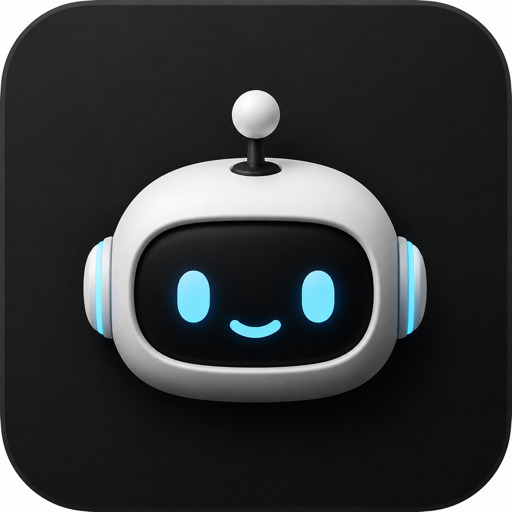
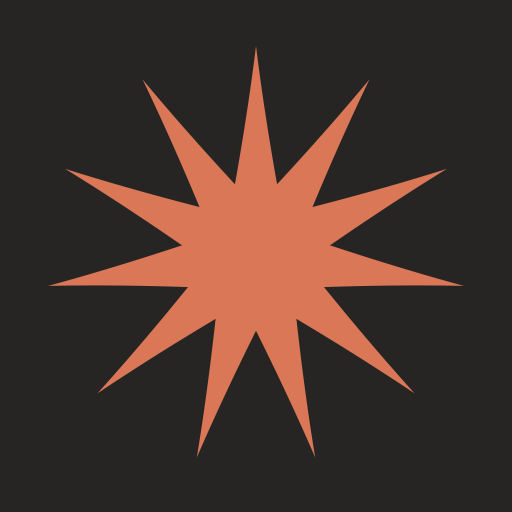
feat: 테마 스위처(docs-to-audiobook 팔레트)·앱 이름 FORGE·로고·작성중 애니메이션
- 테마 4종: 코랄(기본)·골드·페이퍼·라이트. docs-to-audiobook 'Paper &
  Voice' 팔레트 기반. 메뉴 스와치로 전환, data-theme + localStorage.
- 앱 이름 에이전트 → FORGE(title·manifest). 코랄 선버스트 로고(logo.svg/png,
  icon.png) 교체. 빈 화면에 로고 마크.
- '작성 중' 바운싱 점 애니메이션 — 생성 중 멈춰보이지 않게.
- 라이트 테마에서 안 보이던 흰색 하드코딩 텍스트 토큰화.

diff --git a/frontend/src/App.vue b/frontend/src/App.vue
@@ -24,6 +24,24 @@ const showSkills = ref(false)
 const skills = ref([])
 const searchQuery = ref('')
 const searchResults = ref([])
+const theme = ref(localStorage.getItem('forge_theme') || 'dark')
+const THEMES = [
+  { id: 'dark', label: '코랄', c: '#d97757', bg: '#262523' },
+  { id: 'gold', label: '골드', c: '#d9a66f', bg: '#11100f' },
+  { id: 'paper', label: '페이퍼', c: '#a67c52', bg: '#faf5e6' },
+  { id: 'light', label: '라이트', c: '#8a6d3b', bg: '#ffffff' },
+]
+
+function applyTheme(id) {
+  if (id === 'dark') document.documentElement.removeAttribute('data-theme')
+  else document.documentElement.setAttribute('data-theme', id)
+}
+
+function setTheme(id) {
+  theme.value = id
+  localStorage.setItem('forge_theme', id)
+  applyTheme(id)
+}
 let searchTimer = null
 
 function onSearch() {
@@ -1100,6 +1118,8 @@ watch(busy, (v) => {
   window.__forgeBusy = v
 })
 
+applyTheme(theme.value)
+
 onMounted(async () => {
   await loadRooms()
   // 유효한 현재 세션이 없으면 가장 최근 세션으로 랜딩
@@ -1168,6 +1188,20 @@ document.addEventListener('visibilitychange', () => {
           <svg width="18" height="18" viewBox="0 0 24 24" fill="none" stroke="currentColor" stroke-width="2" stroke-linecap="round" stroke-linejoin="round"><circle cx="12" cy="12" r="3"/><path d="M19.4 15a1.65 1.65 0 0 0 .33 1.82l.06.06a2 2 0 1 1-2.83 2.83l-.06-.06a1.65 1.65 0 0 0-1.82-.33 1.65 1.65 0 0 0-1 1.51V21a2 2 0 0 1-4 0v-.09A1.65 1.65 0 0 0 9 19.4a1.65 1.65 0 0 0-1.82.33l-.06.06a2 2 0 1 1-2.83-2.83l.06-.06a1.65 1.65 0 0 0 .33-1.82 1.65 1.65 0 0 0-1.51-1H3a2 2 0 0 1 0-4h.09A1.65 1.65 0 0 0 4.6 9a1.65 1.65 0 0 0-.33-1.82l-.06-.06a2 2 0 1 1 2.83-2.83l.06.06a1.65 1.65 0 0 0 1.82.33H9a1.65 1.65 0 0 0 1-1.51V3a2 2 0 0 1 4 0v.09a1.65 1.65 0 0 0 1 1.51 1.65 1.65 0 0 0 1.82-.33l.06-.06a2 2 0 1 1 2.83 2.83l-.06.06a1.65 1.65 0 0 0-.33 1.82V9a1.65 1.65 0 0 0 1.51 1H21a2 2 0 0 1 0 4h-.09a1.65 1.65 0 0 0-1.51 1z"/></svg>
           <span>관리자</span>
         </div>
+        <div class="theme-row">
+          <span class="theme-label">테마</span>
+          <button
+            v-for="t in THEMES"
+            :key="t.id"
+            class="theme-swatch"
+            :class="{ active: theme === t.id }"
+            :style="{ background: t.bg }"
+            :title="t.label"
+            @click.stop="setTheme(t.id)"
+          >
+            <span class="theme-dot" :style="{ background: t.c }"></span>
+          </button>
+        </div>
       </div>
     </div>
 
@@ -1232,6 +1266,7 @@ document.addEventListener('visibilitychange', () => {
 
     <main ref="chatEl" @scroll.passive="onChatScroll" @touchstart.passive="onMainTouchStart" @touchend.passive="onMainTouchEnd">
       <div v-if="messages.length === 0" class="welcome">
+        <img src="/logo.svg" class="welcome-logo" alt="FORGE" />
         <div class="welcome-brand">FORGE</div>
         <p class="welcome-title">무엇을 작업할까요?</p>
         <p class="sub">{{ shortPath(currentRoom()?.workspace_path) || '워크스페이스 미설정' }}에서 자율로 작업합니다.</p>
@@ -1287,6 +1322,11 @@ document.addEventListener('visibilitychange', () => {
                   <pre v-else>{{ t.status === 'running' ? '실행 중…' : (t.result || '(출력 없음)') }}</pre>
                 </details>
               </template>
+            </div>
+
+            <div v-if="busy && i === messages.length - 1" class="typing">
+              <span class="typing-label">작성 중</span>
+              <span class="typing-dots"><i></i><i></i><i></i></span>
             </div>
 
             <div v-if="(m.state && (m.state.files_changed?.length || m.state.errors?.length)) || m.compacted" class="state-summary">

diff --git a/frontend/src/style.css b/frontend/src/style.css
@@ -1,5 +1,5 @@
 :root {
-  /* 따뜻한 차콜 다크 (Claude 계열) — 순수 블랙 대신 웜 톤 */
+  /* 기본: 따뜻한 차콜 다크 (Claude 계열) + 코랄 */
   --bg: #262523;
   --panel: #302f2c;
   --panel-2: #3a3835;
@@ -8,6 +8,38 @@
   --accent: #d97757;
   --accent-soft: rgba(217, 119, 87, 0.16);
   --border: #423f3a;
+}
+
+/* docs-to-audiobook "Paper & Voice" 팔레트 기반 테마 (data-theme로 전환) */
+:root[data-theme="gold"] {
+  --bg: #11100f;
+  --panel: #1d1b19;
+  --panel-2: #26231f;
+  --text: #e8e4de;
+  --muted: #a3a3a3;
+  --accent: #d9a66f;
+  --accent-soft: rgba(217, 166, 111, 0.16);
+  --border: #302b25;
+}
+:root[data-theme="paper"] {
+  --bg: #faf5e6;
+  --panel: #ffffff;
+  --panel-2: #f2ead6;
+  --text: #3b2f2f;
+  --muted: #7a6559;
+  --accent: #a67c52;
+  --accent-soft: rgba(166, 124, 82, 0.14);
+  --border: rgba(120, 100, 90, 0.22);
+}
+:root[data-theme="light"] {
+  --bg: #ffffff;
+  --panel: #f5f5f4;
+  --panel-2: #ececea;
+  --text: #1a1a1a;
+  --muted: #6b6b6b;
+  --accent: #8a6d3b;
+  --accent-soft: rgba(138, 109, 59, 0.12);
+  --border: rgba(0, 0, 0, 0.12);
 }
 
 * {
@@ -2133,10 +2165,10 @@ button {
 .text p { margin: 11px 0; }
 .text strong, .text b {
   font-weight: 700;
-  color: #fdfcf7;
+  color: var(--text);
 }
 .text h1, .text h2, .text h3, .text h4 {
-  color: #fdfcf7;
+  color: var(--text);
   font-weight: 700;
   margin: 20px 0 10px;
 }
@@ -2277,4 +2309,79 @@ button {
   overflow: hidden;
   text-overflow: ellipsis;
   white-space: nowrap;
+}
+
+.theme-row {
+  display: flex;
+  align-items: center;
+  gap: 8px;
+  padding: 12px 16px;
+}
+.theme-label {
+  font-size: 13px;
+  color: var(--muted);
+  margin-right: 4px;
+}
+.theme-swatch {
+  width: 30px;
+  height: 30px;
+  border-radius: 50%;
+  border: 2px solid var(--border);
+  display: flex;
+  align-items: center;
+  justify-content: center;
+  padding: 0;
+}
+.theme-swatch.active {
+  border-color: var(--accent);
+}
+.theme-dot {
+  width: 12px;
+  height: 12px;
+  border-radius: 50%;
+}
+
+/* 작성 중 인디케이터 (Claude식) */
+.typing {
+  display: flex;
+  align-items: center;
+  gap: 8px;
+  margin-top: 6px;
+  color: var(--accent);
+}
+.typing-label {
+  font-size: 13px;
+  font-weight: 600;
+}
+.typing-dots {
+  display: inline-flex;
+  gap: 4px;
+}
+.typing-dots i {
+  width: 6px;
+  height: 6px;
+  border-radius: 50%;
+  background: var(--accent);
+  display: inline-block;
+  animation: typing-bounce 1.2s ease-in-out infinite;
+}
+.typing-dots i:nth-child(2) { animation-delay: 0.15s; }
+.typing-dots i:nth-child(3) { animation-delay: 0.3s; }
+@keyframes typing-bounce {
+  0%, 60%, 100% { transform: translateY(0); opacity: 0.45; }
+  30% { transform: translateY(-5px); opacity: 1; }
+}
+
+/* 헤더 로고 */
+.brand-logo {
+  width: 22px;
+  height: 22px;
+  flex-shrink: 0;
+}
+
+.welcome-logo {
+  width: 52px;
+  height: 52px;
+  margin: 0 auto 14px;
+  display: block;
 }

diff --git a/frontend/index.html b/frontend/index.html
@@ -2,15 +2,16 @@
 <html lang="ko">
   <head>
     <meta charset="UTF-8" />
-    <link rel="icon" type="image/png" href="/icon.png" />
+    <link rel="icon" type="image/svg+xml" href="/logo.svg" />
+    <link rel="icon" type="image/png" href="/logo.png" />
     <meta name="viewport" content="width=device-width, initial-scale=1.0, maximum-scale=1.0, user-scalable=no, viewport-fit=cover" />
     <meta name="apple-mobile-web-app-capable" content="yes" />
     <meta name="mobile-web-app-capable" content="yes" />
     <meta name="apple-mobile-web-app-status-bar-style" content="black-translucent" />
-    <meta name="theme-color" content="#0b0d12" />
+    <meta name="theme-color" content="#262523" />
     <link rel="manifest" href="/manifest.webmanifest" />
     <link rel="apple-touch-icon" href="/icon.png" />
-    <title>에이전트</title>
+    <title>FORGE</title>
   </head>
   <body>
     <div id="app"></div>
